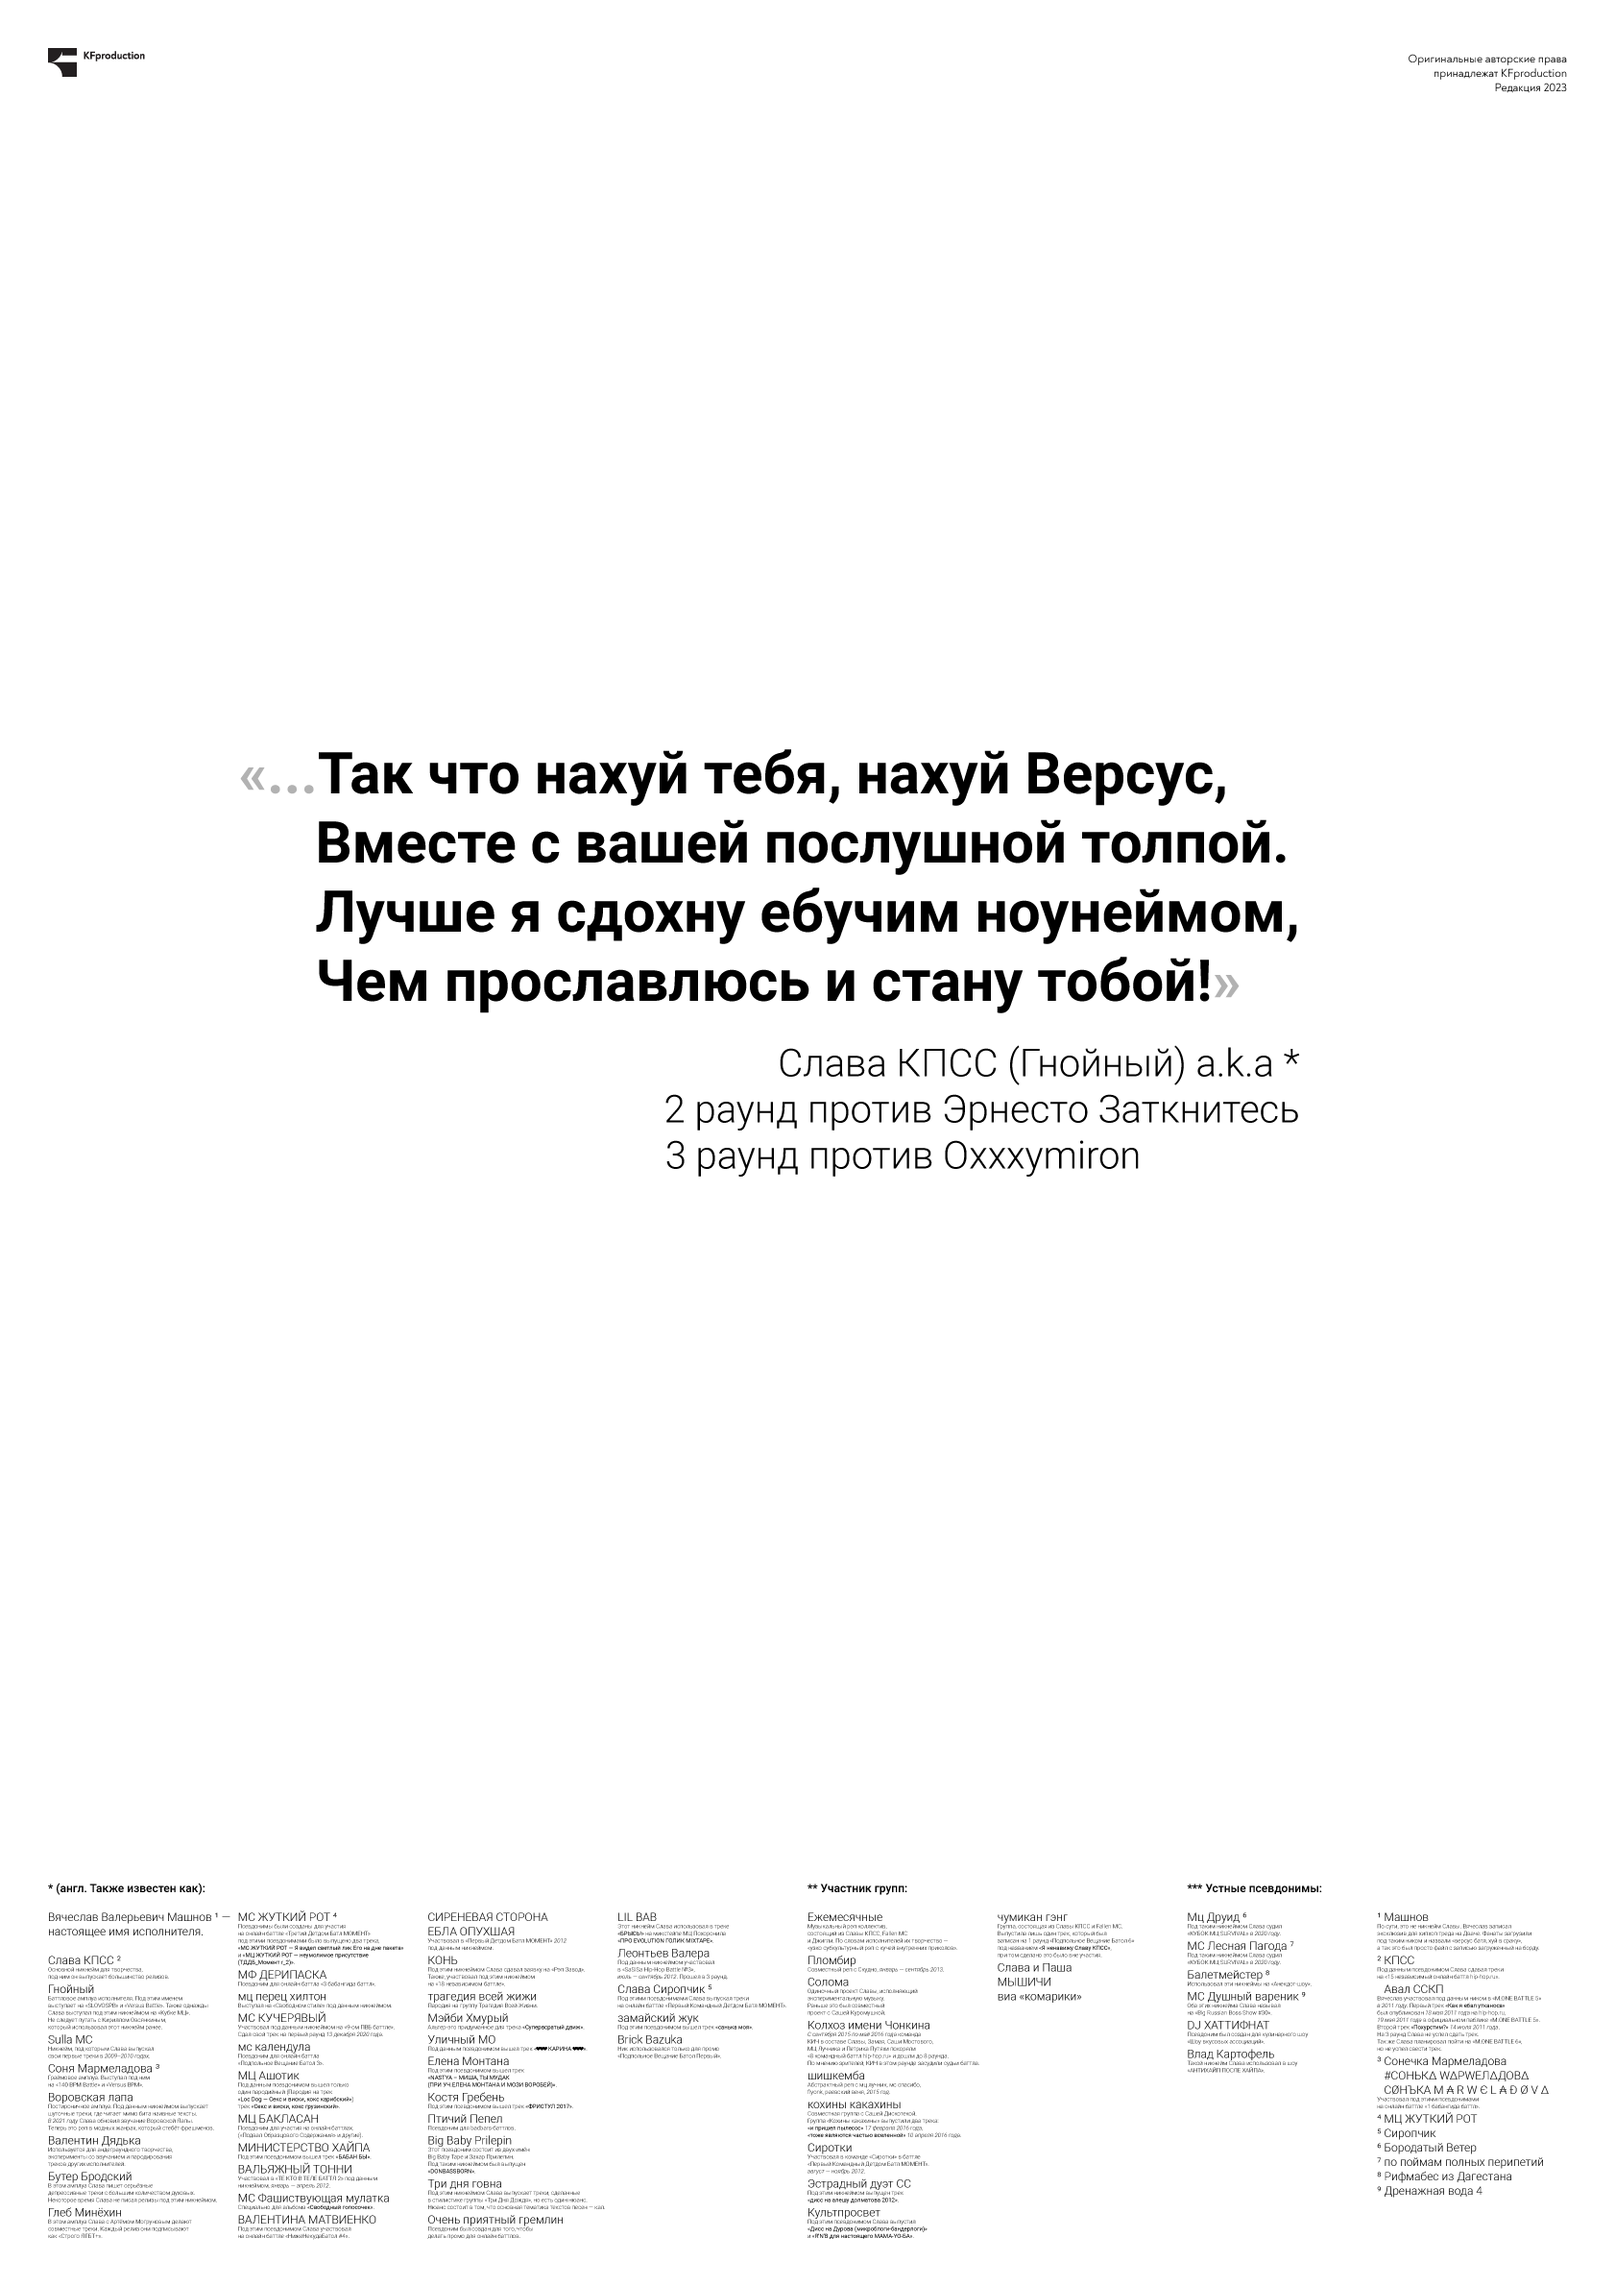
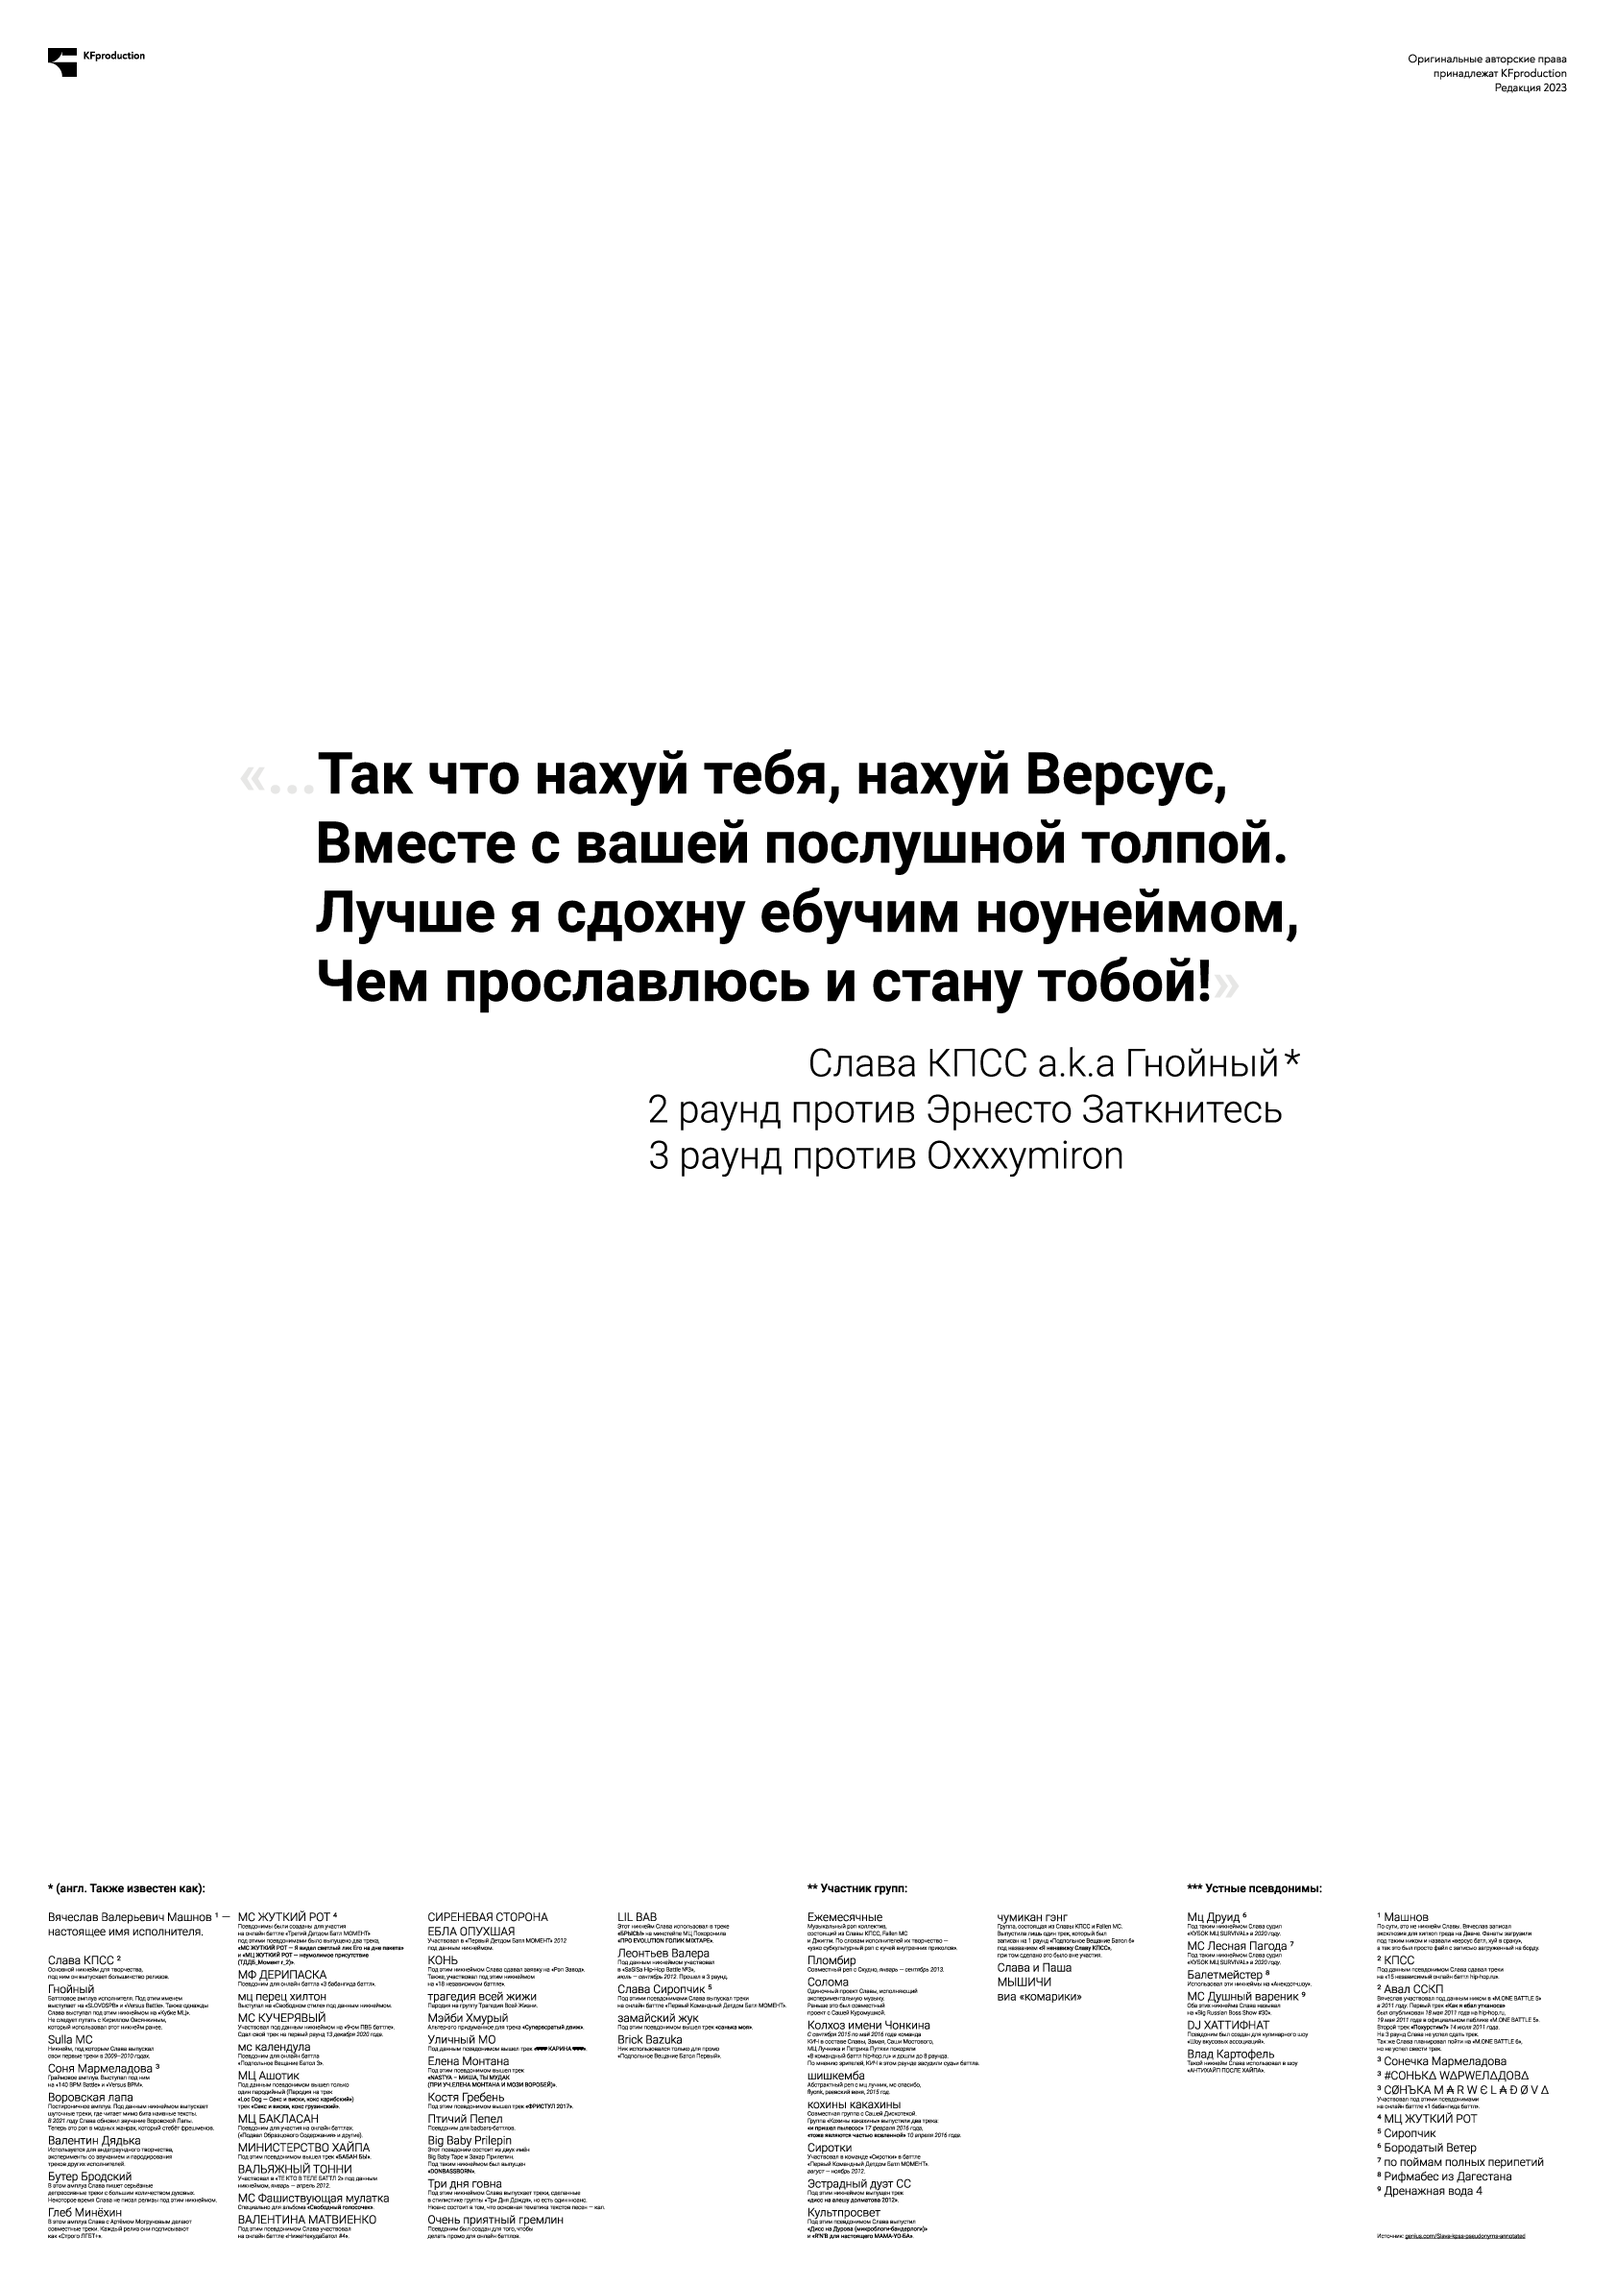
fix [gnojnyj] download add [b-612] final posters upd [gnojnyj poster]

diff --git a/articles/b-612/index.html b/articles/b-612/index.html
@@ -132,6 +132,21 @@
         </section>
       </section>
 
+      <div class="poster-container viewer-container a4">
+        <div class="poster element">
+          <img src="img/img1.webp" loading="lazy" />
+          <section class="description">
+            <p class="minor white">
+              Первая версия плаката
+            </p>
+          </section>
+        </div>
+
+        <div class="poster element">
+          <img src="img/img2.webp" loading="lazy" />
+        </div>
+      </div>
+
       <div class="project-footer white">
         <p class="minor">Дизайнер<br />Максим Мавряшин</p>
         <p class="minor">Готово в&nbsp;августе<br />2026&nbsp;года</p>

diff --git a/articles/b-612/project.css b/articles/b-612/project.css
@@ -1,6 +1,7 @@
 :root {
   --overlay-bg-color: #0000004d;
   --shadow-color: var(--white-trans30);
+  --border-color: var(--white-border-color);
 }
 
 body {
